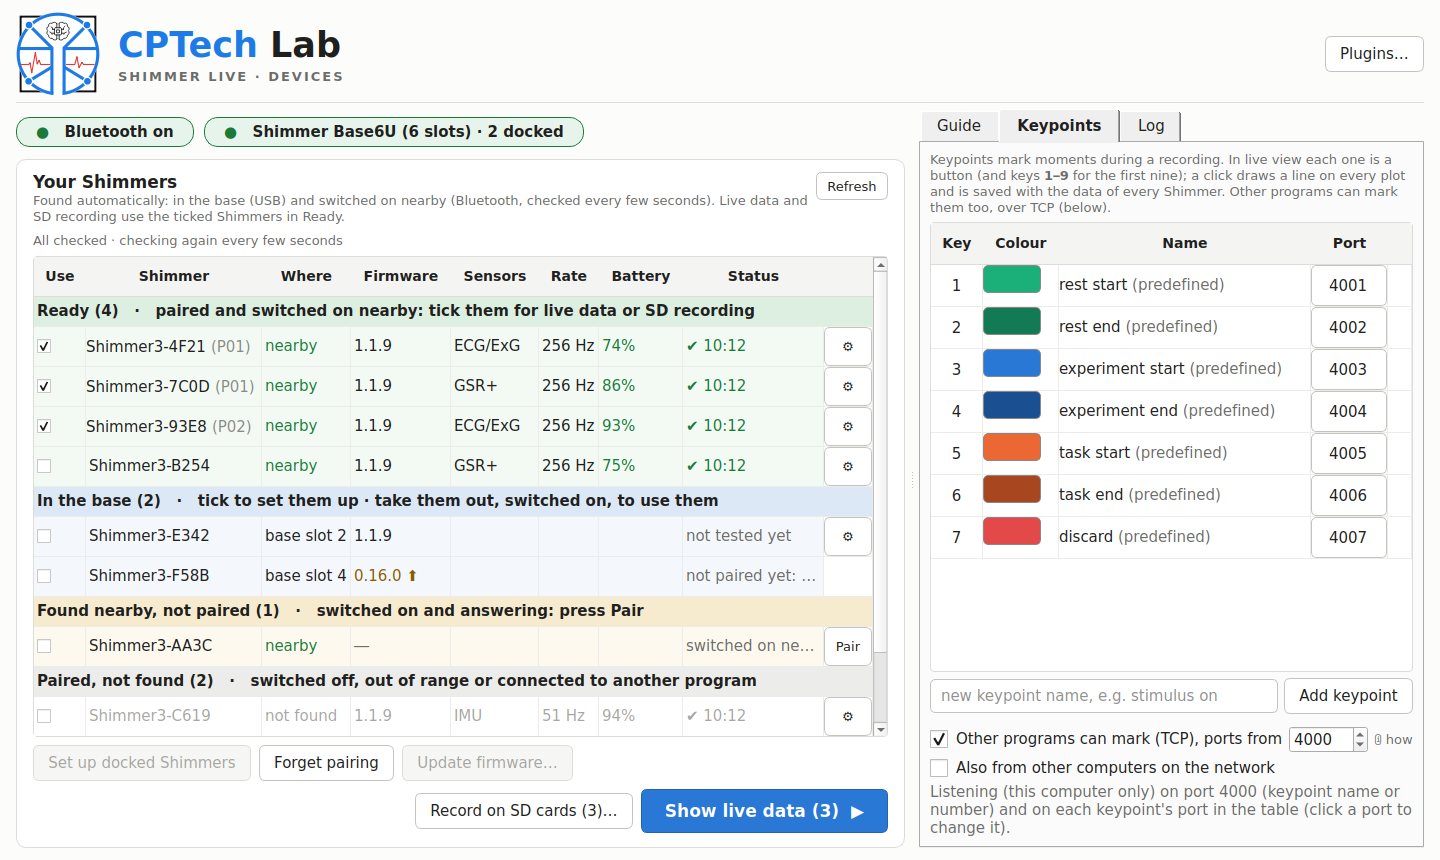
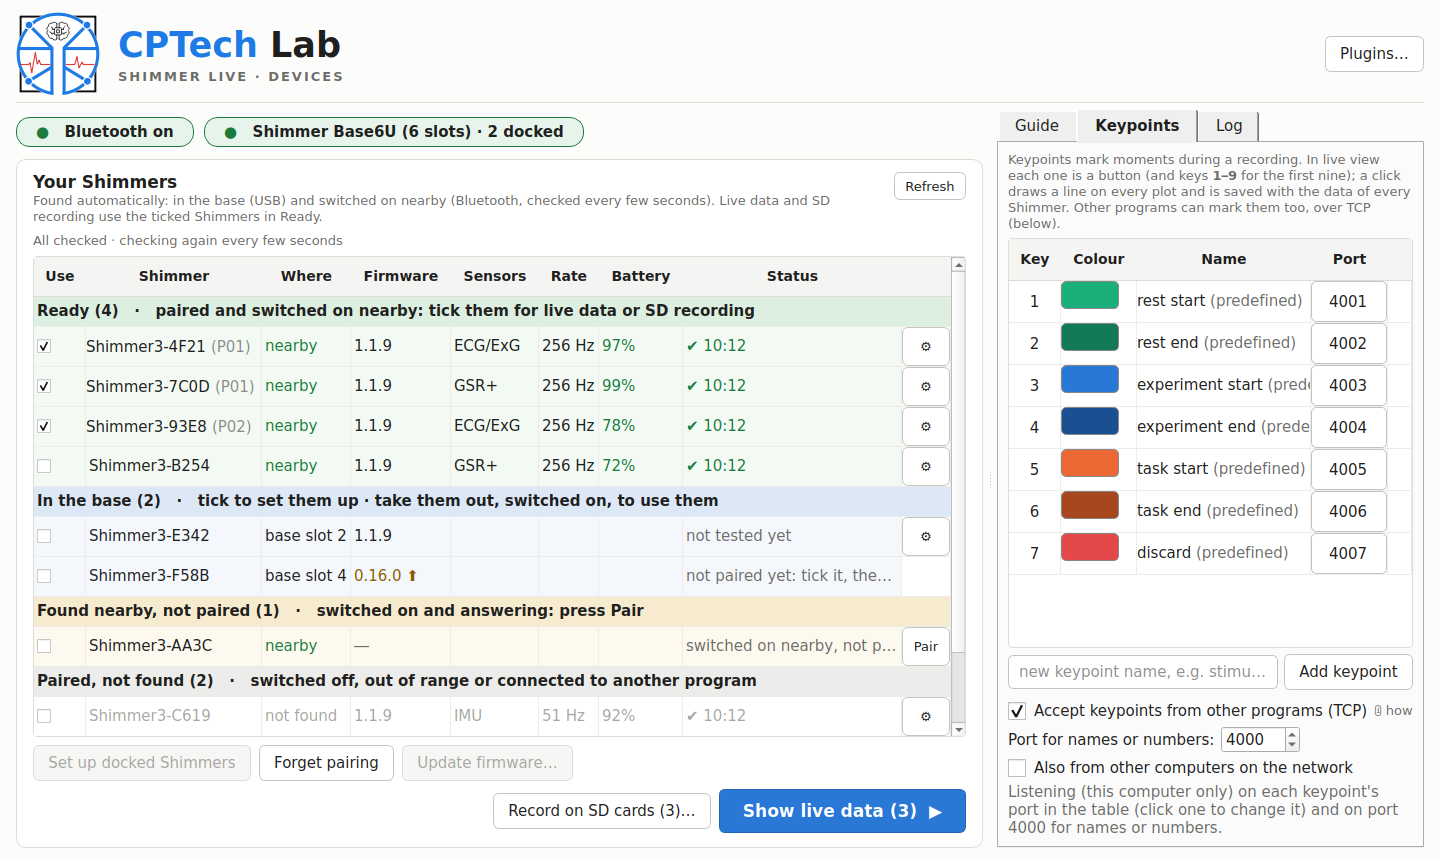
Fixed keypoint ports

diff --git a/shimmer_live/ui/keypoints_editor.py b/shimmer_live/ui/keypoints_editor.py
@@ -10,9 +10,9 @@ from .common import CRITICAL, MUTED, set_role, style_table
 
 TCP_HELP = """<b>Mark keypoints from another program</b> (a stimulus script, a game, Unreal, …).<br>
 Open a TCP connection to this computer and send one line (ending with a newline):<br>
-&nbsp;• to a keypoint's port (in the table; by default <b>{b}+N</b> for keypoint N): anything, even an empty
-line, marks it<br>
-&nbsp;• to port <b>{b}</b>: the keypoint's name or number, e.g. <code>task start</code><br>
+&nbsp;• to a keypoint's own port (in the table): anything, even an empty line, marks that keypoint<br>
+&nbsp;• to the port for names or numbers (<b>{b}</b>): the keypoint's name or number, e.g. <code>task start</code>
+or <code>5</code> &mdash; one connection can then mark any keypoint<br>
 The time is taken the instant the line arrives. The app answers <code>OK &lt;name&gt; &lt;unix ns&gt;</code>,
 or <code>ERR &lt;reason&gt;</code> if nothing is recording. Works during a live recording and during an
 SD recording. One connection can send many lines.<br><br>
@@ -27,6 +27,8 @@ class KeypointsEditor(QWidget):
         super().__init__()
         self.cfg = cfg
         self.items = kpmod.load(cfg)
+        if kpmod.assign_ports(self.items, kp_server.settings(cfg)["base_port"]):
+            kpmod.save(cfg, self.items)          # every keypoint gets its own fixed port (once)
         lay = QVBoxLayout(self)
         intro = QLabel("Keypoints mark moments during a recording. In live view each one is a button "
                        "(and keys <b>1–9</b> for the first nine); a click draws a line on every plot and is saved "
@@ -62,21 +64,28 @@ class KeypointsEditor(QWidget):
         self.server = None                   # kp_server.KeypointServer, set by the main window
         st = kp_server.settings(cfg)
         tcp = QHBoxLayout()
-        self.tcp_on = QCheckBox("Other programs can mark (TCP), ports from")
+        self.tcp_on = QCheckBox("Accept keypoints from other programs (TCP)")
         self.tcp_on.setChecked(st["enabled"])
-        self.tcp_on.setToolTip("Another program marks a keypoint by sending a line to a TCP port: hover ⓘ")
-        self.tcp_port = QSpinBox()
-        self.tcp_port.setRange(1024, 65000)
-        self.tcp_port.setValue(st["base_port"])
-        self.tcp_port.setToolTip("First port: it takes keypoint names or numbers; keypoint N listens on this + N")
+        self.tcp_on.setToolTip("Another program marks a keypoint by sending a line to a TCP port: hover ⓘ how")
         info = set_role(QLabel("ⓘ how"), "muted")
-        info.setToolTip(TCP_HELP.format(b=st["base_port"], b1=st["base_port"] + 1))
         self.tcp_info = info
         tcp.addWidget(self.tcp_on)
-        tcp.addWidget(self.tcp_port)
         tcp.addWidget(info)
         tcp.addStretch(1)
         lay.addLayout(tcp)
+        names = QHBoxLayout()
+        self.tcp_port_label = QLabel("Port for names or numbers:")
+        self.tcp_port = QSpinBox()
+        self.tcp_port.setRange(1024, 65000)
+        self.tcp_port.setValue(st["base_port"])
+        tip = ("Send a keypoint's name or number to this port (e.g. 'task start' or '5'): one connection can mark "
+               "any keypoint. Each keypoint also has its own port, in the table.")
+        self.tcp_port.setToolTip(tip)
+        self.tcp_port_label.setToolTip(tip)
+        names.addWidget(self.tcp_port_label)
+        names.addWidget(self.tcp_port)
+        names.addStretch(1)
+        lay.addLayout(names)
         self.tcp_net = QCheckBox("Also from other computers on the network")
         self.tcp_net.setChecked(st["network"])
         self.tcp_net.setToolTip("Off: only programs on this computer can mark keypoints. On: any computer that "
@@ -97,7 +106,14 @@ class KeypointsEditor(QWidget):
         self.apply_tcp()
 
     def _tcp_changed(self, *_):
-        kp_server.save_settings(self.cfg, enabled=self.tcp_on.isChecked(), base_port=self.tcp_port.value(),
+        port = self.tcp_port.value()
+        taken = next((k.name for k in self.items if k.port == port), None)
+        if taken:
+            QMessageBox.information(self, "Port for names or numbers",
+                                    f"Port {port} is the port of '{taken}'. Choose another one.")
+            self.tcp_port.setValue(kp_server.settings(self.cfg)["base_port"])
+            return
+        kp_server.save_settings(self.cfg, enabled=self.tcp_on.isChecked(), base_port=port,
                                 network=self.tcp_net.isChecked())
         self.apply_tcp()
 
@@ -105,8 +121,9 @@ class KeypointsEditor(QWidget):
         """(Re)start the server for the current keypoint list and settings, and show what listens where."""
         st = kp_server.settings(self.cfg)
         b = st["base_port"]
-        self.tcp_info.setToolTip(TCP_HELP.format(b=b, b1=b + 1))
+        self.tcp_info.setToolTip(TCP_HELP.format(b=b, b1=self.port_of(0) if self.items else b + 1))
         self.tcp_port.setEnabled(st["enabled"])
+        self.tcp_port_label.setEnabled(st["enabled"])
         self.tcp_net.setEnabled(st["enabled"])
         if self.server is not None:
             if st["enabled"]:
@@ -121,9 +138,9 @@ class KeypointsEditor(QWidget):
             self.tcp_status.setText("")
             return
         text = (f"<span style='color:{MUTED}'>Listening "
-                f"({'this computer and the network' if st['network'] else 'this computer only'}) on port {b} "
-                f"(keypoint name or number) and on each keypoint's port in the table (click a port to change "
-                f"it).</span>")
+                f"({'this computer and the network' if st['network'] else 'this computer only'}) on each "
+                f"keypoint's port in the table (click one to change it) and on port {b} for names or "
+                f"numbers.</span>")
         if self.server.errors:
             bad = ", ".join(f"{p} ({why})" for p, why in sorted(self.server.errors.items()))
             text += (f"<br><span style='color:{CRITICAL}'>Not available: {bad}. Another program (or a second copy "
@@ -134,19 +151,17 @@ class KeypointsEditor(QWidget):
         return kpmod.tcp_ports(self.items, kp_server.settings(self.cfg)["base_port"])[i]
 
     def _set_port(self, i, text):
-        """A port typed in the table: empty = the default (first port + its number)."""
+        """A port typed in the table (empty or invalid: the old port stays)."""
         base = kp_server.settings(self.cfg)["base_port"]
         text = text.strip()
-        port = int(text) if text.isdigit() else None
-        if port == base + i + 1:
-            port = None                          # the default: keeps following the first port
-        if port == self.items[i].port:
+        port = int(text) if text.isdigit() and 1024 <= int(text) <= 65535 else None
+        if port is None or port == self.items[i].port:
+            self._render()
             return
-        new = port or base + i + 1
-        used = {p: f"'{self.items[j].name}'" for j, p in enumerate(kpmod.tcp_ports(self.items, base)) if j != i}
-        used[base] = "the first port (names and numbers)"
-        if new in used:
-            QMessageBox.information(self, "Keypoint port", f"Port {new} is already used by {used[new]}. "
+        used = {k.port: f"'{k.name}'" for j, k in enumerate(self.items) if j != i and k.port}
+        used[base] = "the port for names or numbers"
+        if port in used:
+            QMessageBox.information(self, "Keypoint port", f"Port {port} is already used by {used[port]}. "
                                                            "Choose another one.")
             self._render()
             return
@@ -190,13 +205,8 @@ class KeypointsEditor(QWidget):
             pl.setFixedWidth(76)
             pl.setEnabled(on)
             pl.setToolTip((f"Another program marks '{k.name}' by sending a line to TCP port {port}.\n"
-                           f"Type another port to change it (1024–65535); empty = the default "
-                           f"({kp_server.settings(self.cfg)['base_port'] + r + 1}).") if on
+                           f"Type another port to change it (1024–65535).") if on
                           else "Keypoints over TCP are off")
-            if k.port:
-                f = pl.font()
-                f.setBold(True)
-                pl.setFont(f)                        # changed from the default
             if on and self.server is not None and port in self.server.errors:
                 pl.setStyleSheet(f"color: {CRITICAL};")
                 pl.setToolTip(f"Port {port} is not available: {self.server.errors[port]}. Type another one.")
@@ -238,7 +248,8 @@ class KeypointsEditor(QWidget):
         if any(k.name == name for k in self.items):
             QMessageBox.information(self, "Keypoints", f"'{name}' already exists.")
             return
-        self.items.append(kpmod.Keypoint(name, kpmod.next_color(self.items), False))
+        self.items.append(kpmod.Keypoint(name, kpmod.next_color(self.items), False,
+                                         kpmod.next_free_port(self.items, kp_server.settings(self.cfg)["base_port"])))
         self.new_name.clear()
         self._save()
         self._render()

diff --git a/tests/test_kp_server.py b/tests/test_kp_server.py
@@ -128,16 +128,31 @@ def test_each_keypoint_port_can_be_changed_in_the_editor(tmp_path, monkeypatch):
     srv = kp_server.KeypointServer(lambda target, at: (got.append(target), "OK")[1])
     ed.attach_server(srv)
     try:
+        assert [k.port for k in kpmod.load(cfg)] == [base + n for n in range(1, 8)]   # fixed once, as before
         assert ed.table.cellWidget(0, 3).text() == str(base + 1)
         ed._set_port(4, str(other))                          # task start -> another port
         assert kpmod.load(cfg)[4].port == other and other in srv.targets and srv.targets[other] == 4
-        assert base + 5 not in srv.targets                   # its default port is free again
+        assert base + 5 not in srv.targets                   # its old port is free again
         assert ask(other, b"\n") == ["OK"] and got[-1] == 4
         ed._set_port(1, str(other))                          # already used: refused
-        assert told and "already used by 'task start'" in told[-1] and kpmod.load(cfg)[1].port is None
-        ed._set_port(2, str(base))                           # the first port: refused
-        assert "first port" in told[-1]
-        ed._set_port(4, "")                                  # empty: back to the default
-        assert kpmod.load(cfg)[4].port is None and srv.targets[base + 5] == 4
+        assert told and "already used by 'task start'" in told[-1] and kpmod.load(cfg)[1].port == base + 2
+        ed._set_port(2, str(base))                           # the port for names or numbers: refused
+        assert "names or numbers" in told[-1]
+        ed._set_port(4, "")                                  # empty: the port stays
+        assert kpmod.load(cfg)[4].port == other
+        # the port for names or numbers moves alone: the keypoints keep their ports
+        ed.tcp_port.setValue(base + 30)
+        ed._tcp_changed()
+        assert kp_server.settings(cfg)["base_port"] == base + 30 and kpmod.load(cfg)[0].port == base + 1
+        assert srv.targets[base + 30] is None and srv.targets[base + 1] == 0
+        ed.tcp_port.setValue(base + 1)                       # taken by 'rest start': refused, value restored
+        ed._tcp_changed()
+        assert "port of 'rest start'" in told[-1] and kp_server.settings(cfg)["base_port"] == base + 30
+        # a new keypoint gets the next free port; removing one never moves the others
+        ed.new_name.setText("stimulus on")
+        ed._add()
+        assert kpmod.load(cfg)[-1].port == base + 31
+        ed._remove(len(ed.items) - 1)
+        assert [k.port for k in kpmod.load(cfg)][:4] == [base + 1, base + 2, base + 3, base + 4]
     finally:
         srv.stop()

diff --git a/shimmer_live/keypoints.py b/shimmer_live/keypoints.py
@@ -16,7 +16,7 @@ class Keypoint:
     name: str
     color: str
     builtin: bool = False
-    port: int | None = None        # TCP port that marks it (None: the default, first port + its number)
+    port: int | None = None        # TCP port that marks it; given once (assign_ports), then fixed
 
 
 def load(cfg) -> list[Keypoint]:
@@ -27,8 +27,31 @@ def load(cfg) -> list[Keypoint]:
 
 
 def tcp_ports(keypoints: list[Keypoint], base_port: int) -> list[int]:
-    """The TCP port of each keypoint: its own if set, else base_port + its number (1, 2, ...)."""
+    """The TCP port of each keypoint (base_port + its number for one not assigned yet)."""
     return [k.port or base_port + i + 1 for i, k in enumerate(keypoints)]
+
+
+def assign_ports(keypoints: list[Keypoint], name_port: int) -> bool:
+    """Give every keypoint without a port its own fixed one: name_port + its number (as before, so existing
+    setups keep 4001, 4002, ...) or, if taken, the next free one. Returns True if any port was assigned."""
+    used = {k.port for k in keypoints if k.port} | {name_port}
+    changed = False
+    for i, k in enumerate(keypoints):
+        if not k.port:
+            p = name_port + i + 1
+            while p in used:
+                p += 1
+            k.port, changed = p, True
+            used.add(p)
+    return changed
+
+
+def next_free_port(keypoints: list[Keypoint], name_port: int) -> int:
+    used = {k.port for k in keypoints if k.port} | {name_port}
+    p = name_port + 1
+    while p in used:
+        p += 1
+    return p
 
 
 def save(cfg, keypoints: list[Keypoint]) -> None:

diff --git a/shimmer_live/kp_server.py b/shimmer_live/kp_server.py
@@ -1,7 +1,7 @@
 """Keypoints from other programs over TCP: a message on a port marks a keypoint at that moment.
 
 Ports (base port B, default 4000; keypoint N is the N-th in the Keypoints list):
-  B + N   any line (even empty: "\\n") marks keypoint N (B + N is the default: each keypoint's port can be set)
+  each keypoint's own port (fixed; 4001, 4002, ... at first)   any line (even empty: "\\n") marks it
   B       a line with a keypoint's name or number ("task start", "3") marks that keypoint
 
 The time is taken the instant the line arrives, before the app does anything else, so a busy UI does
